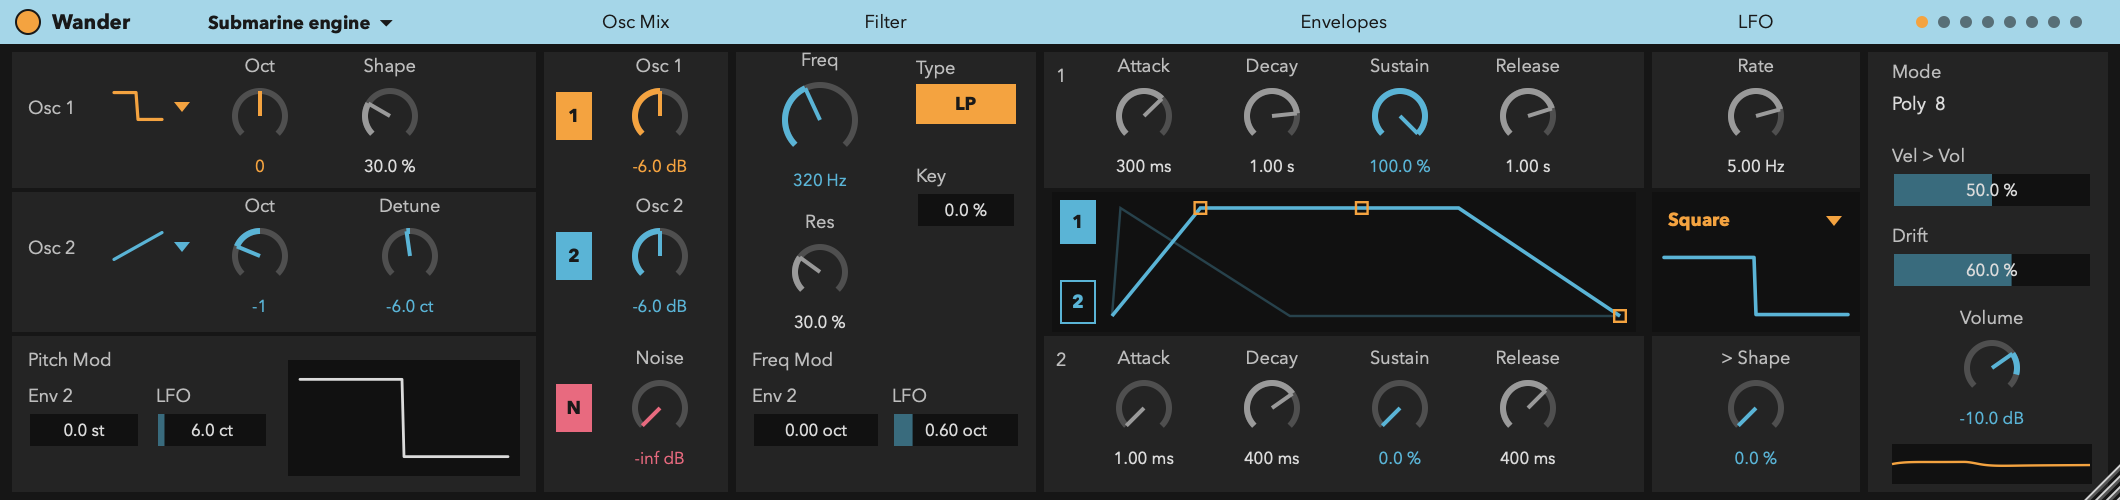
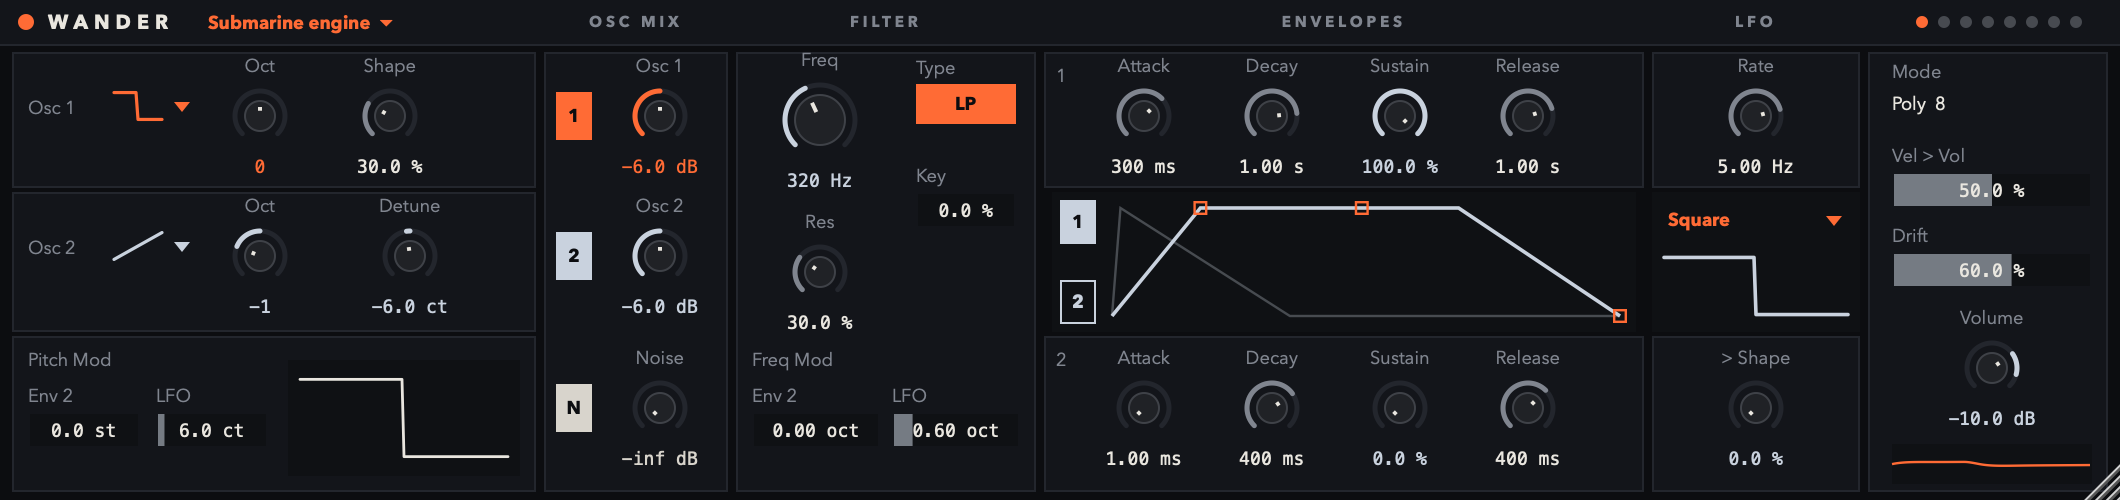
Own look: the palette of Bassonator and Voicenator, no Ableton comparisons

diff --git a/src/PluginEditor.cpp b/src/PluginEditor.cpp
@@ -4,30 +4,36 @@
 // ---------------------------------------------------------------- colours and type
 namespace colour
 {
-const juce::Colour frame { 0xff161616 };
-const juce::Colour panel { 0xff242424 };
-const juce::Colour well { 0xff111111 };
-const juce::Colour head { 0xffa5d6e8 };
-const juce::Colour ink { 0xff191919 };
-const juce::Colour label { 0xffbdbdbd };
-const juce::Colour value { 0xffdbdbdb };
-const juce::Colour track { 0xff4f4f4f };
+// the palette of Bassonator and Voicenator, so the plugins look like one family
+const juce::Colour frame { 0xff0c0d10 };
+const juce::Colour panel { 0xff13151a };
+const juce::Colour well { 0xff0f1114 };
+const juce::Colour line { 0xff23262d };
+const juce::Colour ink { 0xff0c0d10 };
+const juce::Colour label { 0xff80858f };
+const juce::Colour value { 0xffe9e6df };
+const juce::Colour track { 0xff23262d };
 }
 
 juce::Colour look::accent (int a)
 {
     switch (a)
     {
-        case orange: return juce::Colour (0xfff4a340);
-        case blue:   return juce::Colour (0xff5ab4d6);
-        case pink:   return juce::Colour (0xffe86a7f);
-        default:     return juce::Colour (0xff9a9a9a);
+        case orange: return juce::Colour (0xffff6b35);   // the family accent
+        case blue:   return juce::Colour (0xffc9d2de);   // cool steel
+        case pink:   return juce::Colour (0xffd8d4cc);   // warm ivory (noise)
+        default:     return juce::Colour (0xff80858f);
     }
 }
 
 juce::Font look::font (float size, bool bold)
 {
     return juce::Font (juce::FontOptions ("Avenir Next", size, bold ? juce::Font::bold : juce::Font::plain));
+}
+
+juce::Font look::mono (float size)
+{
+    return juce::Font (juce::FontOptions ("Menlo", size, juce::Font::plain));
 }
 
 namespace
@@ -79,7 +85,7 @@ void WanderLook::drawRotarySlider (juce::Graphics& g, int x, int y, int w, int h
     juce::Path track;
     track.addCentredArc (c.x, c.y, r, r, 0, start, end, true);
     g.setColour (colour::track);
-    g.strokePath (track, juce::PathStrokeType (3.0f, juce::PathStrokeType::curved, juce::PathStrokeType::butt));
+    g.strokePath (track, juce::PathStrokeType (2.5f, juce::PathStrokeType::curved, juce::PathStrokeType::rounded));
 
     const double lo = s.getMinimum(), hi = s.getMaximum();
     const float zero = (lo < 0 && hi > 0) ? start + (float) s.valueToProportionOfLength (0) * (end - start) : start;
@@ -87,11 +93,16 @@ void WanderLook::drawRotarySlider (juce::Graphics& g, int x, int y, int w, int h
     {
         juce::Path arc;
         arc.addCentredArc (c.x, c.y, r, r, 0, juce::jmin (zero, angle), juce::jmax (zero, angle), true);
-        g.setColour (s.isMouseOverOrDragging() ? accent.brighter (0.25f) : accent);
-        g.strokePath (arc, juce::PathStrokeType (3.0f, juce::PathStrokeType::curved, juce::PathStrokeType::butt));
+        g.setColour (s.isMouseOverOrDragging() ? accent.brighter (0.2f) : accent);
+        g.strokePath (arc, juce::PathStrokeType (2.5f, juce::PathStrokeType::curved, juce::PathStrokeType::rounded));
     }
-    g.setColour (s.isMouseOverOrDragging() ? accent.brighter (0.25f) : accent);
-    g.drawLine ({ c, c.getPointOnCircumference (r, angle) }, 2.0f);
+    const float body = r - 5;
+    g.setColour (colour::panel.brighter (0.06f));
+    g.fillEllipse (juce::Rectangle<float> (body * 2, body * 2).withCentre (c));
+    g.setColour (colour::line.brighter (0.15f));
+    g.drawEllipse (juce::Rectangle<float> (body * 2, body * 2).withCentre (c), 1);
+    g.setColour (colour::value);
+    g.drawLine ({ c.getPointOnCircumference (body * 0.35f, angle), c.getPointOnCircumference (body - 3, angle) }, 2);
 }
 
 void WanderLook::drawLinearSlider (juce::Graphics& g, int x, int y, int w, int h, float, float, float,
@@ -131,7 +142,7 @@ void Knob::paint (juce::Graphics& g)
     g.setFont (look::font (12.5f));
     g.setColour (colour::label);
     g.drawText (label, getLocalBounds().removeFromTop (16), juce::Justification::centred);
-    g.setFont (look::font (11.5f));
+    g.setFont (look::mono (10.5f));
     g.setColour (accent == look::grey ? colour::value : look::accent (accent));
     g.drawText (textOf (param), getLocalBounds().removeFromBottom (16), juce::Justification::centred);
 }
@@ -170,7 +181,7 @@ public:
     explicit BoxText (juce::RangedAudioParameter* p) : param (p) { setInterceptsMouseClicks (false, false); }
     void paint (juce::Graphics& g) override
     {
-        g.setFont (look::font (11.5f));
+        g.setFont (look::mono (10.5f));
         g.setColour (colour::value);
         g.drawText (textOf (param), getLocalBounds(), juce::Justification::centred);
     }
@@ -278,25 +289,28 @@ public:
         g.fillAll (colour::frame);
 
         // header
-        g.setColour (colour::head);
+        g.setColour (colour::panel);
         g.fillRect (0, 0, baseWidth, 22);
+        g.setColour (colour::line);
+        g.fillRect (0, 22, baseWidth, 1);
         g.setColour (look::accent (look::orange));
-        g.fillEllipse (8, 5, 12, 12);
-        g.setColour (colour::ink);
-        g.drawEllipse (8, 5, 12, 12, 1);
-        g.setFont (look::font (14, true));
-        g.drawText ("Wander", 26, 0, 80, 22, juce::Justification::centredLeft);
-        g.setFont (look::font (12.5f));
-        g.drawText ("Osc Mix", 272, 0, 92, 22, juce::Justification::centred);
-        g.drawText ("Filter", 368, 0, 150, 22, juce::Justification::centred);
-        g.drawText ("Envelopes", 522, 0, 300, 22, juce::Justification::centred);
+        g.fillEllipse (9, 7, 8, 8);
+        g.setColour (colour::value);
+        g.setFont (look::font (13.5f, true).withExtraKerningFactor (0.22f));
+        g.drawText ("WANDER", 24, 0, 90, 22, juce::Justification::centredLeft);
+        g.setColour (colour::label);
+        g.setFont (look::font (10.5f, true).withExtraKerningFactor (0.18f));
+        g.drawText ("OSC MIX", 272, 0, 92, 22, juce::Justification::centred);
+        g.drawText ("FILTER", 368, 0, 150, 22, juce::Justification::centred);
+        g.drawText ("ENVELOPES", 522, 0, 300, 22, juce::Justification::centred);
         g.drawText ("LFO", 826, 0, 104, 22, juce::Justification::centred);
+        g.setColour (look::accent (look::orange));
         g.setFont (look::font (12.5f, true));
         g.drawText (presetName(), presetArea(), juce::Justification::centredLeft);
         // one dot per voice, lit while it sounds
         for (int v = 0; v < wander::numVoices; ++v)
         {
-            g.setColour (proc.voiceOn[(size_t) v] ? look::accent (look::orange) : colour::ink.withAlpha (0.55f));
+            g.setColour (proc.voiceOn[(size_t) v] ? look::accent (look::orange) : colour::line.brighter (0.2f));
             g.fillEllipse (958.0f + (float) v * 11, 8, 6, 6);
         }
 
@@ -410,7 +424,11 @@ private:
             typeLabelY = y - 16;
     }
 
-    static void panel (juce::Graphics& g, int x, int y, int w, int h) { g.setColour (colour::panel); g.fillRect (x, y, w, h); }
+    static void panel (juce::Graphics& g, int x, int y, int w, int h)
+    {
+        g.setColour (colour::panel); g.fillRect (x, y, w, h);
+        g.setColour (colour::line); g.drawRect (x, y, w, h, 1);
+    }
     static void well (juce::Graphics& g, int x, int y, int w, int h) { g.setColour (colour::well); g.fillRect (x, y, w, h); }
     static void square (juce::Graphics& g, int x, int y, const juce::String& t, int accent)
     {

diff --git a/src/PluginEditor.h b/src/PluginEditor.h
@@ -1,4 +1,4 @@
-// Wander's editor, laid out like Ableton's Drift: a header bar, then Osc / Osc Mix / Filter / Envelopes /
+// Wander's editor: a header bar, then Osc / Osc Mix / Filter / Envelopes /
 // LFO / global columns, drawn on a 1060 x 250 layout and scaled to the window.
 #pragma once
 #include "PluginProcessor.h"
@@ -10,6 +10,7 @@ namespace look
 enum Accent { grey = 0, orange = 1, blue = 2, pink = 3 };
 juce::Colour accent (int a);
 juce::Font font (float size, bool bold = false);
+juce::Font mono (float size);
 }
 
 class WanderLook final : public juce::LookAndFeel_V4
@@ -37,7 +38,7 @@ private:
     std::unique_ptr<juce::AudioProcessorValueTreeState::SliderAttachment> attachment;
 };
 
-// A value field filled to its value, like Drift's percentage boxes: drag up or down.
+// A value field filled to its value: drag up or down.
 class ValueBox final : public juce::Component
 {
 public:

diff --git a/README.md b/README.md
@@ -1,8 +1,8 @@
 # Wander
 
-A free eight-voice synthesiser in the spirit of "two oscillators, a filter and some drift", laid out
-like Ableton's Drift. VST3 and AU for macOS (Apple Silicon and Intel), VST3 for Windows, a standalone
-app, and a JSFX version for REAPER.
+A free eight-voice synthesiser: two oscillators and noise, a filter, two envelopes, an LFO, and some
+drift. VST3 and AU for macOS (Apple Silicon and Intel), VST3 for Windows, a standalone app, and a JSFX
+version for REAPER.
 
 ![Wander](docs/wander.png)
 

diff --git a/docs/RELEASE.md b/docs/RELEASE.md
@@ -1,5 +1,5 @@
 **Wander** is a free eight-voice synthesiser: two oscillators and noise, a filter, two envelopes, an LFO,
-and drift, laid out like Ableton's Drift.
+and drift.
 
 | Download | For |
 |---|---|
